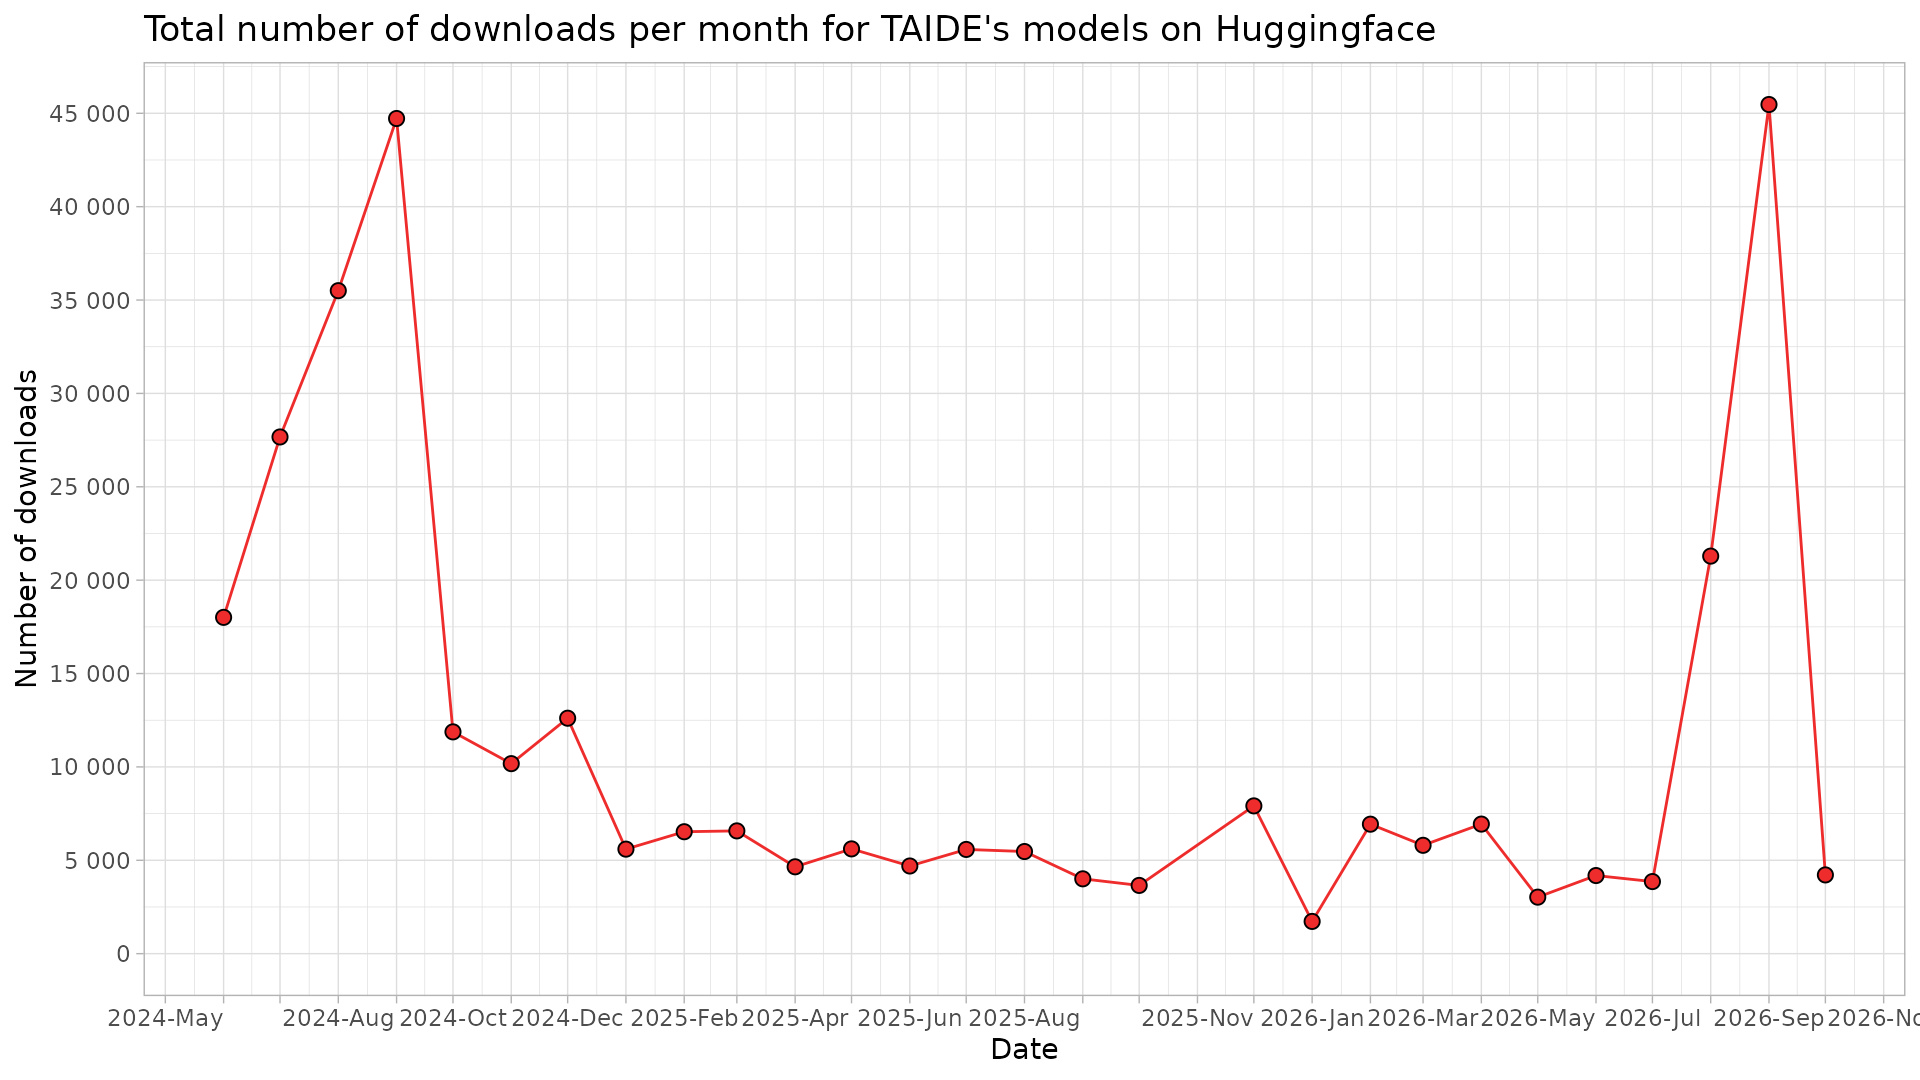
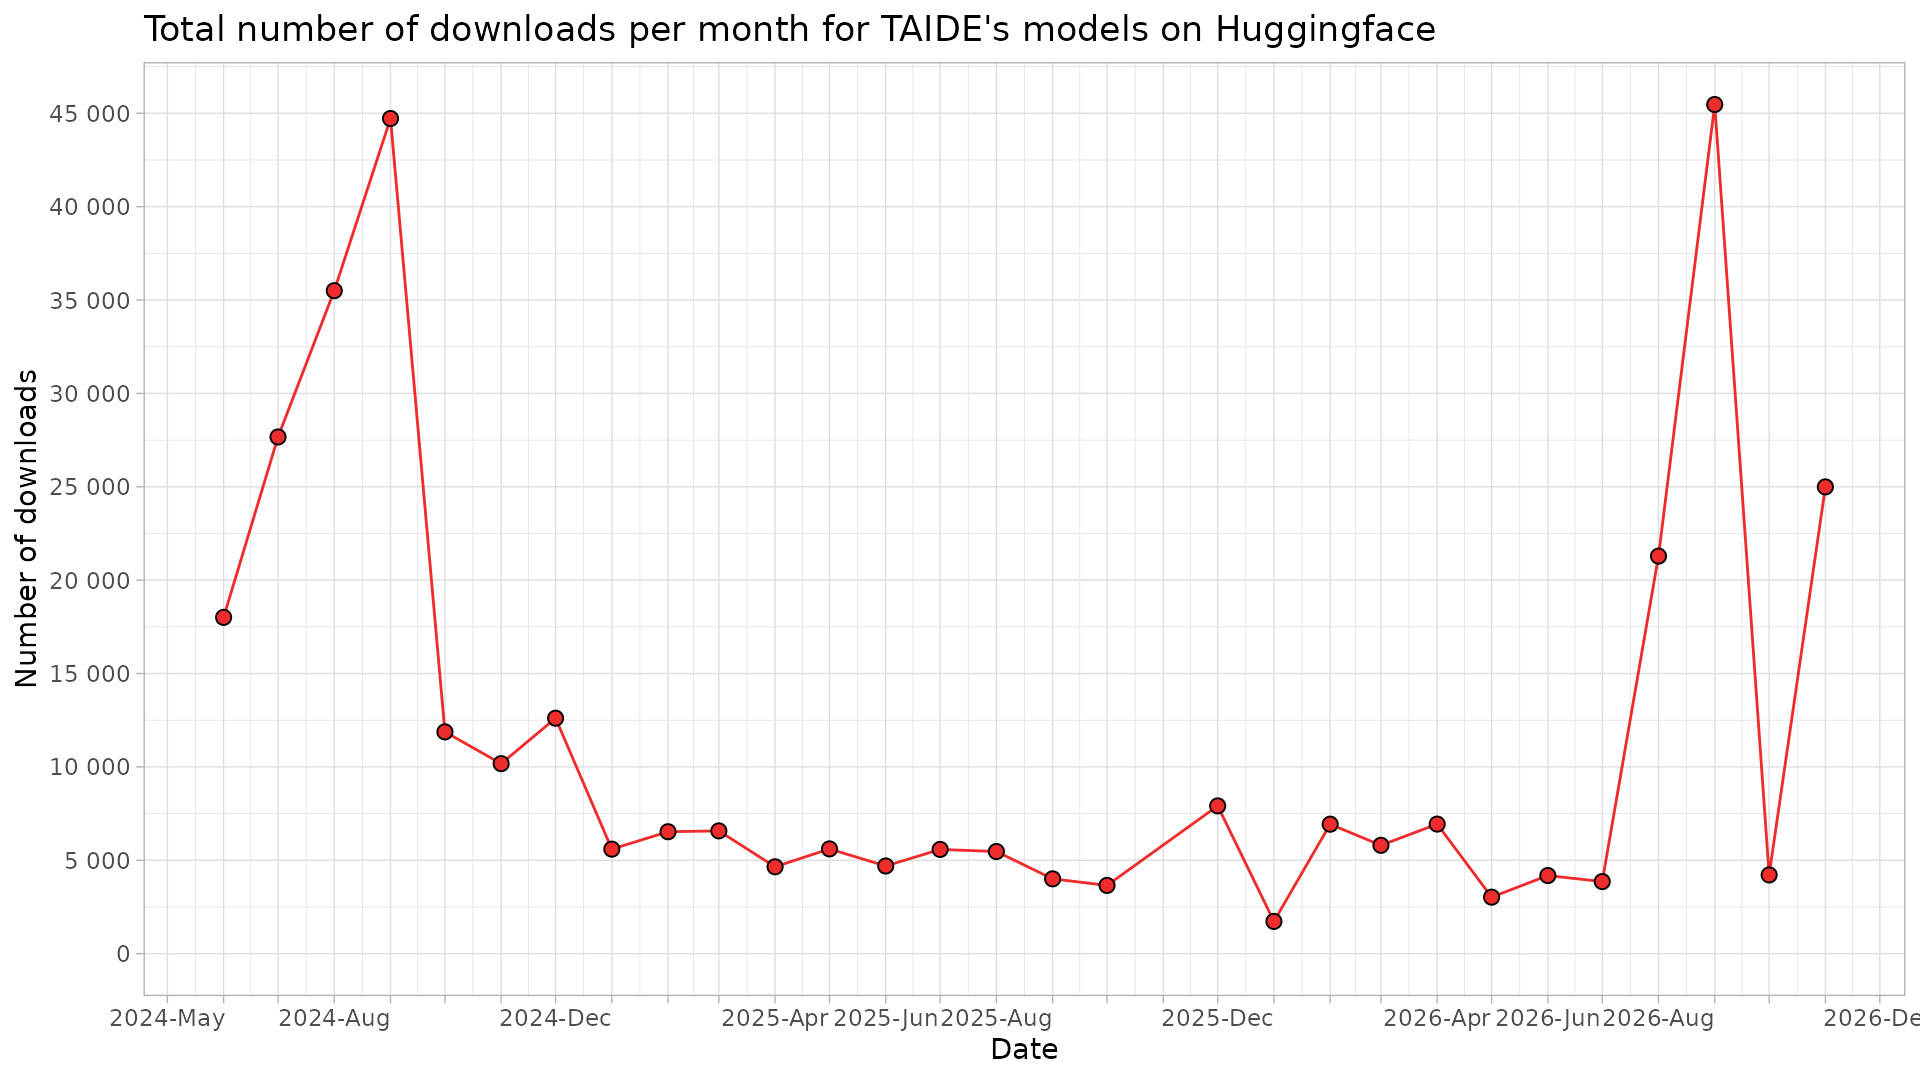
update

diff --git a/README.md b/README.md
@@ -11,19 +11,19 @@ Script is run monthly, and a monthly `csv`-file outputted to `/data` folder.
 !["Huggingface downloads by model plot."](https://github.com/nctu6/huggingface_stats/blob/main/plots/downloads_by_model.jpg)
 
 ## Table of downloads
-|model_name                          | downloadsAllTime| 2026-10| 2026-09| 2026-08| 2026-07| 2026-06| 2026-05| 2026-04| 2026-03| 2026-02| 2026-01| 2025-12| 2025-10| 2025-09| 2025-08| 2025-07| 2025-06| 2025-05| 2025-04| 2025-03| 2025-02| 2025-01| 2024-12| 2024-11| 2024-10| 2024-09| 2024-08| 2024-07| 2024-06|
-|:-----------------------------------|----------------:|-------:|-------:|-------:|-------:|-------:|-------:|-------:|-------:|-------:|-------:|-------:|-------:|-------:|-------:|-------:|-------:|-------:|-------:|-------:|-------:|-------:|-------:|-------:|-------:|-------:|-------:|-------:|-------:|
-|Llama3-TAIDE-LX-8B-Chat-Alpha1      |           122791|     272|     313|     301|     950|     765|     777|    4444|    4270|     319|     337|    3073|     346|     171|     348|    1416|     446|    1549|    1675|    3484|    4922|    3122|    8215|    5272|    5042|   21499|   27164|   11808|   10491|
-|TAIDE-LX-7B-Chat                    |            65219|     688|     402|     183|     129|     188|     135|      87|       8|     383|      82|     290|     437|     184|     276|    1228|     776|     591|     527|    1045|     909|    1036|    1455|    3774|    6130|   21600|    3495|   14122|    5059|
-|Gemma-3-TAIDE-12b-Chat-2602         |            49545|     503|   41212|    1897|    1824|    1025|    1085|    1627|     372|       0|       0|       0|       0|       0|       0|       0|       0|       0|       0|       0|       0|       0|       0|       0|       0|       0|       0|       0|       0|
-|Llama-3.1-TAIDE-LX-8B-Chat          |            46905|     363|    1317|   17417|     676|    1289|     602|     509|     728|     313|     471|    3281|    1339|    1774|    4689|    2699|    3139|    2770|    1975|    1554|       0|       0|       0|       0|       0|       0|       0|       0|       0|
-|TAIDE-LX-7B                         |            14776|     225|      69|      26|      16|     512|     102|     113|      45|      26|      39|      73|      42|      27|      48|     141|     222|     558|     338|     145|     215|    1150|    2491|     463|     215|     860|    4063|    1098|    1454|
-|Gemma-3-TAIDE-12b-Chat              |            12553|     449|      48|      77|      93|     331|     260|     111|     340|    5816|     745|    1141|    1369|    1763|      10|       0|       0|       0|       0|       0|       0|       0|       0|       0|       0|       0|       0|       0|       0|
-|embeddinggemma-GTAIDE-300m-2605     |             5146|    1655|    2076|    1270|     145|       0|       0|       0|       0|       0|       0|       0|       0|       0|       0|       0|       0|       0|       0|       0|       0|       0|       0|       0|       0|       0|       0|       0|       0|
-|Llama3-TAIDE-LX-8B-Chat-Alpha1-4bit |             4462|       8|      14|     103|      13|      14|       8|      20|      22|      40|      28|      37|      92|      51|      76|      63|      72|     102|      99|     252|     172|     185|     312|     444|     301|     527|     324|     412|     671|
-|TAIDE-LX-7B-Chat-4bit               |             2353|      53|      19|      14|      14|      59|      57|      27|      17|      36|      24|      18|      29|      37|      22|      34|      39|      40|      37|      94|     311|     104|     135|     217|     107|     194|     148|     208|     259|
-|b.11.0.0                            |              355|       0|       0|       0|       0|       0|       0|       0|       0|       0|       0|       0|       0|       0|       0|       0|       0|       0|       0|       0|       0|       0|       0|       5|       0|       7|     302|       5|      36|
-|llava_llama3_8b_clip336_e           |              115|       0|       0|       0|       0|       0|       0|       0|       0|       0|       0|       0|       0|       0|       0|       0|       0|       0|       0|       0|       0|       0|       0|       0|      81|      34|       0|       0|       0|
-|a.2.0.0                             |               24|       0|       0|       0|       0|       0|       0|       0|       0|       0|       0|       0|       0|       0|       0|       0|       0|       0|       0|       0|       0|       0|       0|       0|       0|       0|       0|       0|      24|
-|e.1.1.0                             |               19|       0|       0|       0|       0|       0|       0|       0|       0|       0|       0|       0|       0|       0|       0|       0|       0|       0|       0|       0|       0|       0|       0|       0|       0|       0|       5|       0|      14|
-|b.1.0.0                             |               15|       0|       0|       0|       0|       0|       0|       0|       0|       0|       0|       0|       0|       0|       0|       0|       0|       0|       0|       0|       0|       0|       0|       0|       0|       0|       0|      15|       0|
+|model_name                          | downloadsAllTime| 2026-11| 2026-10| 2026-09| 2026-08| 2026-07| 2026-06| 2026-05| 2026-04| 2026-03| 2026-02| 2026-01| 2025-12| 2025-10| 2025-09| 2025-08| 2025-07| 2025-06| 2025-05| 2025-04| 2025-03| 2025-02| 2025-01| 2024-12| 2024-11| 2024-10| 2024-09| 2024-08| 2024-07| 2024-06|
+|:-----------------------------------|----------------:|-------:|-------:|-------:|-------:|-------:|-------:|-------:|-------:|-------:|-------:|-------:|-------:|-------:|-------:|-------:|-------:|-------:|-------:|-------:|-------:|-------:|-------:|-------:|-------:|-------:|-------:|-------:|-------:|-------:|
+|Llama3-TAIDE-LX-8B-Chat-Alpha1      |           123067|     276|     272|     313|     301|     950|     765|     777|    4444|    4270|     319|     337|    3073|     346|     171|     348|    1416|     446|    1549|    1675|    3484|    4922|    3122|    8215|    5272|    5042|   21499|   27164|   11808|   10491|
+|Llama-3.1-TAIDE-LX-8B-Chat          |            69256|   22351|     363|    1317|   17417|     676|    1289|     602|     509|     728|     313|     471|    3281|    1339|    1774|    4689|    2699|    3139|    2770|    1975|    1554|       0|       0|       0|       0|       0|       0|       0|       0|       0|
+|TAIDE-LX-7B-Chat                    |            65902|     683|     688|     402|     183|     129|     188|     135|      87|       8|     383|      82|     290|     437|     184|     276|    1228|     776|     591|     527|    1045|     909|    1036|    1455|    3774|    6130|   21600|    3495|   14122|    5059|
+|Gemma-3-TAIDE-12b-Chat-2602         |            49707|     162|     503|   41212|    1897|    1824|    1025|    1085|    1627|     372|       0|       0|       0|       0|       0|       0|       0|       0|       0|       0|       0|       0|       0|       0|       0|       0|       0|       0|       0|       0|
+|TAIDE-LX-7B                         |            14809|      33|     225|      69|      26|      16|     512|     102|     113|      45|      26|      39|      73|      42|      27|      48|     141|     222|     558|     338|     145|     215|    1150|    2491|     463|     215|     860|    4063|    1098|    1454|
+|Gemma-3-TAIDE-12b-Chat              |            13011|     458|     449|      48|      77|      93|     331|     260|     111|     340|    5816|     745|    1141|    1369|    1763|      10|       0|       0|       0|       0|       0|       0|       0|       0|       0|       0|       0|       0|       0|       0|
+|embeddinggemma-GTAIDE-300m-2605     |             6112|     966|    1655|    2076|    1270|     145|       0|       0|       0|       0|       0|       0|       0|       0|       0|       0|       0|       0|       0|       0|       0|       0|       0|       0|       0|       0|       0|       0|       0|       0|
+|Llama3-TAIDE-LX-8B-Chat-Alpha1-4bit |             4489|      27|       8|      14|     103|      13|      14|       8|      20|      22|      40|      28|      37|      92|      51|      76|      63|      72|     102|      99|     252|     172|     185|     312|     444|     301|     527|     324|     412|     671|
+|TAIDE-LX-7B-Chat-4bit               |             2391|      38|      53|      19|      14|      14|      59|      57|      27|      17|      36|      24|      18|      29|      37|      22|      34|      39|      40|      37|      94|     311|     104|     135|     217|     107|     194|     148|     208|     259|
+|b.11.0.0                            |              355|       0|       0|       0|       0|       0|       0|       0|       0|       0|       0|       0|       0|       0|       0|       0|       0|       0|       0|       0|       0|       0|       0|       0|       5|       0|       7|     302|       5|      36|
+|llava_llama3_8b_clip336_e           |              115|       0|       0|       0|       0|       0|       0|       0|       0|       0|       0|       0|       0|       0|       0|       0|       0|       0|       0|       0|       0|       0|       0|       0|       0|      81|      34|       0|       0|       0|
+|a.2.0.0                             |               24|       0|       0|       0|       0|       0|       0|       0|       0|       0|       0|       0|       0|       0|       0|       0|       0|       0|       0|       0|       0|       0|       0|       0|       0|       0|       0|       0|       0|      24|
+|e.1.1.0                             |               19|       0|       0|       0|       0|       0|       0|       0|       0|       0|       0|       0|       0|       0|       0|       0|       0|       0|       0|       0|       0|       0|       0|       0|       0|       0|       0|       5|       0|      14|
+|b.1.0.0                             |               15|       0|       0|       0|       0|       0|       0|       0|       0|       0|       0|       0|       0|       0|       0|       0|       0|       0|       0|       0|       0|       0|       0|       0|       0|       0|       0|       0|      15|       0|
